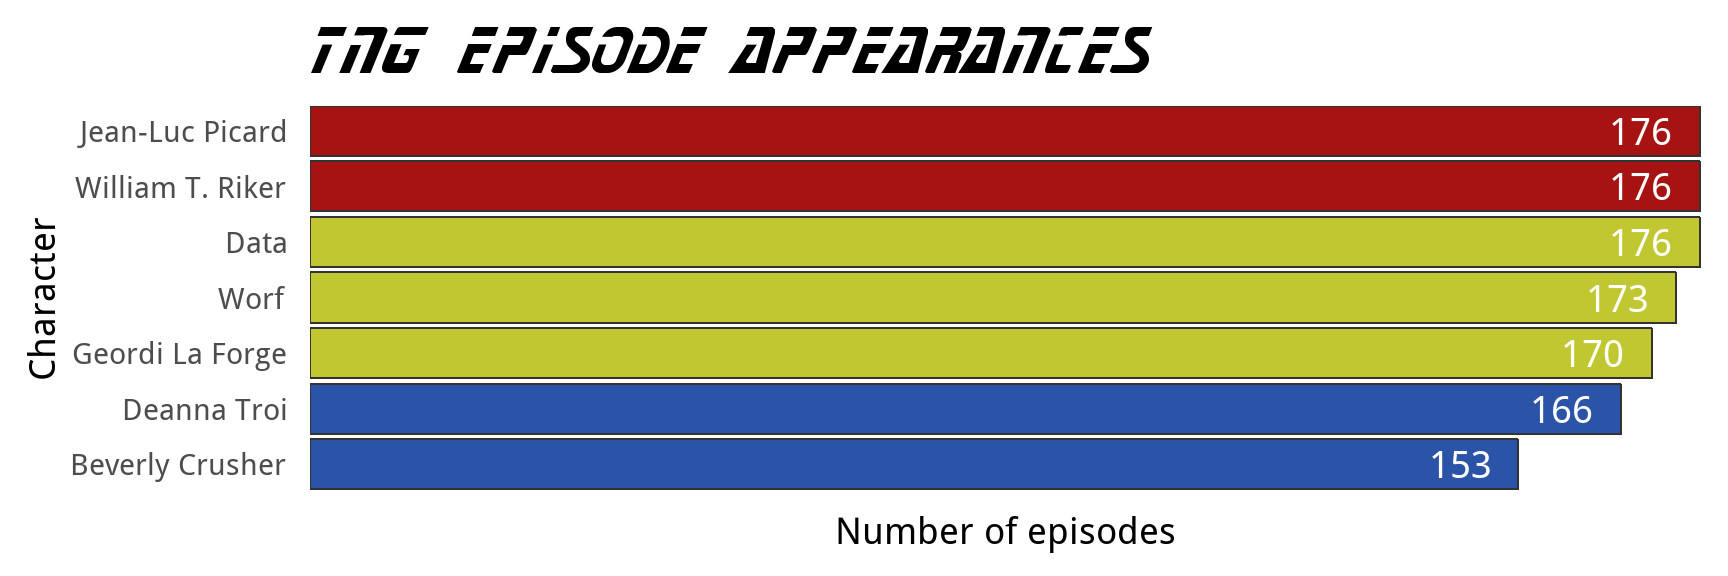
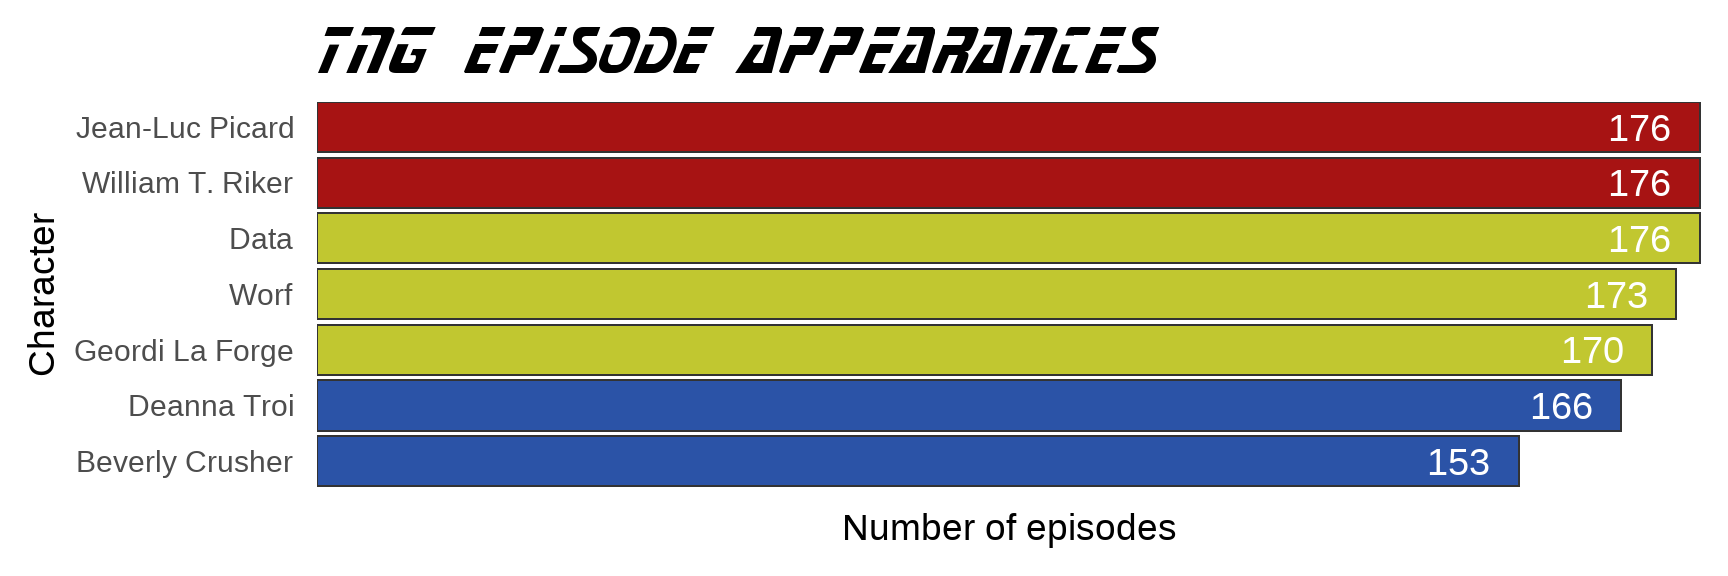
Update docs.

Changed region(s): [[0.0, 0.1562, 1.0, 0.9688], [0.1562, 0.0312, 0.6875, 0.125]]

diff --git a/docs/reference/theme_rtrek.html b/docs/reference/theme_rtrek.html
@@ -1,0 +1,229 @@
+<!-- Generated by pkgdown: do not edit by hand -->
+<!DOCTYPE html>
+<html lang="en">
+  <head>
+  <meta charset="utf-8">
+<meta http-equiv="X-UA-Compatible" content="IE=edge">
+<meta name="viewport" content="width=device-width, initial-scale=1.0">
+
+<title>ggplot2 themes — theme_rtrek • rtrek</title>
+
+<!-- favicons -->
+<link rel="icon" type="image/png" sizes="16x16" href="../favicon-16x16.png">
+<link rel="icon" type="image/png" sizes="32x32" href="../favicon-32x32.png">
+<link rel="apple-touch-icon" type="image/png" sizes="180x180" href="../apple-touch-icon.png" />
+<link rel="apple-touch-icon" type="image/png" sizes="120x120" href="../apple-touch-icon-120x120.png" />
+<link rel="apple-touch-icon" type="image/png" sizes="76x76" href="../apple-touch-icon-76x76.png" />
+<link rel="apple-touch-icon" type="image/png" sizes="60x60" href="../apple-touch-icon-60x60.png" />
+<!-- jquery -->
+<script src="https://cdnjs.cloudflare.com/ajax/libs/jquery/3.3.1/jquery.min.js" integrity="sha256-FgpCb/KJQlLNfOu91ta32o/NMZxltwRo8QtmkMRdAu8=" crossorigin="anonymous"></script>
+<!-- Bootstrap -->
+
+<link rel="stylesheet" href="https://cdnjs.cloudflare.com/ajax/libs/twitter-bootstrap/3.3.7/css/bootstrap.min.css" integrity="sha256-916EbMg70RQy9LHiGkXzG8hSg9EdNy97GazNG/aiY1w=" crossorigin="anonymous" />
+<script src="https://cdnjs.cloudflare.com/ajax/libs/twitter-bootstrap/3.3.7/js/bootstrap.min.js" integrity="sha256-U5ZEeKfGNOja007MMD3YBI0A3OSZOQbeG6z2f2Y0hu8=" crossorigin="anonymous"></script>
+
+<!-- Font Awesome icons -->
+<link rel="stylesheet" href="https://cdnjs.cloudflare.com/ajax/libs/font-awesome/4.7.0/css/font-awesome.min.css" integrity="sha256-eZrrJcwDc/3uDhsdt61sL2oOBY362qM3lon1gyExkL0=" crossorigin="anonymous" />
+
+<!-- clipboard.js -->
+<script src="https://cdnjs.cloudflare.com/ajax/libs/clipboard.js/2.0.4/clipboard.min.js" integrity="sha256-FiZwavyI2V6+EXO1U+xzLG3IKldpiTFf3153ea9zikQ=" crossorigin="anonymous"></script>
+
+<!-- sticky kit -->
+<script src="https://cdnjs.cloudflare.com/ajax/libs/sticky-kit/1.1.3/sticky-kit.min.js" integrity="sha256-c4Rlo1ZozqTPE2RLuvbusY3+SU1pQaJC0TjuhygMipw=" crossorigin="anonymous"></script>
+
+<!-- pkgdown -->
+<link href="../pkgdown.css" rel="stylesheet">
+<script src="../pkgdown.js"></script>
+
+
+
+  <link href="../extra.css" rel="stylesheet">
+  
+<meta property="og:title" content="ggplot2 themes — theme_rtrek" />
+
+<meta property="og:description" content="A collection of ggplot2 themes." />
+
+<meta property="og:image" content="https://leonawicz.github.io/rtrek/logo.png" />
+<meta name="twitter:card" content="summary" />
+
+
+
+<!-- mathjax -->
+<script src="https://cdnjs.cloudflare.com/ajax/libs/mathjax/2.7.5/MathJax.js" integrity="sha256-nvJJv9wWKEm88qvoQl9ekL2J+k/RWIsaSScxxlsrv8k=" crossorigin="anonymous"></script>
+<script src="https://cdnjs.cloudflare.com/ajax/libs/mathjax/2.7.5/config/TeX-AMS-MML_HTMLorMML.js" integrity="sha256-84DKXVJXs0/F8OTMzX4UR909+jtl4G7SPypPavF+GfA=" crossorigin="anonymous"></script>
+
+<!--[if lt IE 9]>
+<script src="https://oss.maxcdn.com/html5shiv/3.7.3/html5shiv.min.js"></script>
+<script src="https://oss.maxcdn.com/respond/1.4.2/respond.min.js"></script>
+<![endif]-->
+
+
+<!-- Global site tag (gtag.js) - Google Analytics -->
+<script async src="https://www.googletagmanager.com/gtag/js?id=UA-46129458-3"></script>
+<script>
+  window.dataLayer = window.dataLayer || [];
+  function gtag(){dataLayer.push(arguments);}
+  gtag('js', new Date());
+
+  gtag('config', 'UA-46129458-3');
+</script>
+
+  </head>
+
+  <body>
+    <div class="container template-reference-topic">
+      <header>
+      <div class="navbar navbar-inverse navbar-fixed-top" role="navigation">
+  <div class="container">
+    <div class="navbar-header">
+      <button type="button" class="navbar-toggle collapsed" data-toggle="collapse" data-target="#navbar" aria-expanded="false">
+        <span class="sr-only">Toggle navigation</span>
+        <span class="icon-bar"></span>
+        <span class="icon-bar"></span>
+        <span class="icon-bar"></span>
+      </button>
+      <span class="navbar-brand">
+        <a class="navbar-link" href="../index.html">rtrek</a>
+        <span class="version label label-default" data-toggle="tooltip" data-placement="bottom" title="Released version">0.2.5</span>
+      </span>
+    </div>
+
+    <div id="navbar" class="navbar-collapse collapse">
+      <ul class="nav navbar-nav">
+        <li>
+  <a href="../index.html">
+    <span class="fa fa-home"></span>
+     
+    Home
+  </a>
+</li>
+<li>
+  <a href="../articles/rtrek.html">Get Started</a>
+</li>
+<li class="dropdown">
+  <a href="#" class="dropdown-toggle" data-toggle="dropdown" role="button" aria-expanded="false">
+    Articles
+     
+    <span class="caret"></span>
+  </a>
+  <ul class="dropdown-menu" role="menu">
+    <li>
+      <a href="../articles/stapi.html">Star Trek API (STAPI)</a>
+    </li>
+    <li>
+      <a href="../articles/memory-alpha.html">Memory Alpha</a>
+    </li>
+    <li>
+      <a href="../articles/memory-beta.html">Memory Beta</a>
+    </li>
+    <li>
+      <a href="../articles/fonts.html">Star Trek fonts</a>
+    </li>
+    <li class="divider"></li>
+    <li class="dropdown-header">Examples</li>
+    <li>
+      <a href="../articles/ex-word-count.html">Novels: word count</a>
+    </li>
+    <li>
+      <a href="../articles/ex-episode-analysis.html">Episodes: spoken lines</a>
+    </li>
+  </ul>
+</li>
+<li>
+  <a href="../reference/index.html">Reference</a>
+</li>
+<li>
+  <a href="../news/index.html">Changelog</a>
+</li>
+      </ul>
+      
+      <ul class="nav navbar-nav navbar-right">
+        <li>
+  <a href="../articles/sc.html">Stellar Cartography</a>
+</li>
+<li>
+  <a href="../articles/rr.html">R &amp; R... &amp; R</a>
+</li>
+<li>
+  <a href="https://github.com/leonawicz/rtrek">
+    <span class="fa fa-github fa-lg"></span>
+     
+  </a>
+</li>
+      </ul>
+      
+    </div><!--/.nav-collapse -->
+  </div><!--/.container -->
+</div><!--/.navbar -->
+
+      
+      </header>
+
+<div class="row">
+  <div class="col-md-9 contents">
+    <div class="page-header">
+    <h1>ggplot2 themes</h1>
+    <small class="dont-index">Source: <a href='https://github.com/leonawicz/rtrek/blob/master/R/themes.R'><code>R/themes.R</code></a></small>
+    <div class="hidden name"><code>theme_rtrek.Rd</code></div>
+    </div>
+
+    <div class="ref-description">
+    
+    <p>A collection of ggplot2 themes.</p>
+    
+    </div>
+
+    <pre class="usage"><span class='fu'>theme_rtrek</span>(<span class='kw'>base_size</span> <span class='kw'>=</span> <span class='fl'>11</span>, <span class='kw'>base_family</span> <span class='kw'>=</span> <span class='st'>""</span>,
+  <span class='kw'>base_line_size</span> <span class='kw'>=</span> <span class='no'>base_size</span>/<span class='fl'>22</span>, <span class='kw'>base_rect_size</span> <span class='kw'>=</span> <span class='no'>base_size</span>/<span class='fl'>22</span>)
+
+<span class='fu'>theme_rtrek_dark</span>(<span class='kw'>base_size</span> <span class='kw'>=</span> <span class='fl'>11</span>, <span class='kw'>base_family</span> <span class='kw'>=</span> <span class='st'>""</span>,
+  <span class='kw'>base_line_size</span> <span class='kw'>=</span> <span class='no'>base_size</span>/<span class='fl'>22</span>, <span class='kw'>base_rect_size</span> <span class='kw'>=</span> <span class='no'>base_size</span>/<span class='fl'>22</span>)</pre>
+    
+    <h2 class="hasAnchor" id="arguments"><a class="anchor" href="#arguments"></a>Arguments</h2>
+    <table class="ref-arguments">
+    <colgroup><col class="name" /><col class="desc" /></colgroup>
+    <tr>
+      <th>base_size</th>
+      <td><p>base font size.</p></td>
+    </tr>
+    <tr>
+      <th>base_family</th>
+      <td><p>base font family.</p></td>
+    </tr>
+    <tr>
+      <th>base_line_size</th>
+      <td><p>base size for line elements.</p></td>
+    </tr>
+    <tr>
+      <th>base_rect_size</th>
+      <td><p>base size for rect elements.</p></td>
+    </tr>
+    </table>
+    
+
+  </div>
+  <div class="col-md-3 hidden-xs hidden-sm" id="sidebar">
+    <h2>Contents</h2>
+    <ul class="nav nav-pills nav-stacked">
+      <li><a href="#arguments">Arguments</a></li>
+                </ul>
+
+  </div>
+</div>
+
+      <footer>
+      <div class="copyright">
+  <p>Developed by <a href='https://leonawicz.github.io/'>Matthew Leonawicz</a>.</p>
+</div>
+
+<div class="pkgdown">
+  <p>Site built with <a href="https://pkgdown.r-lib.org/">pkgdown</a> 1.3.0.</p>
+</div>
+      </footer>
+   </div>
+
+  
+
+  </body>
+</html>
+

diff --git a/docs/articles/memory-alpha.html b/docs/articles/memory-alpha.html
@@ -263,7 +263,7 @@
 <div class="sourceCode" id="cb5"><pre class="sourceCode r"><code class="sourceCode r"><a class="sourceLine" id="cb5-1" title="1"><span class="kw"><a href="https://www.rdocumentation.org/packages/base/topics/library">library</a></span>(dplyr)</a>
 <a class="sourceLine" id="cb5-2" title="2">klingons &lt;-<span class="st"> </span><span class="kw"><a href="../reference/memory_alpha.html">memory_alpha</a></span>(<span class="st">"people/Klingons/Memory Alpha images (Klingons)"</span>)</a>
 <a class="sourceLine" id="cb5-3" title="3">klingons</a>
-<a class="sourceLine" id="cb5-4" title="4"><span class="co">#&gt; # A tibble: 1,199 x 2</span></a>
+<a class="sourceLine" id="cb5-4" title="4"><span class="co">#&gt; # A tibble: 1,200 x 2</span></a>
 <a class="sourceLine" id="cb5-5" title="5"><span class="co">#&gt;    `Memory Alpha images (Klingons)`   url                                  </span></a>
 <a class="sourceLine" id="cb5-6" title="6"><span class="co">#&gt;    &lt;chr&gt;                              &lt;chr&gt;                                </span></a>
 <a class="sourceLine" id="cb5-7" title="7"><span class="co">#&gt;  1 Age of ascension pain sticks.jpg   File:Age_of_ascension_pain_sticks.jpg</span></a>
@@ -276,7 +276,7 @@
 <a class="sourceLine" id="cb5-14" title="14"><span class="co">#&gt;  8 Alexander Rozhenko, 2370.jpg       File:Alexander_Rozhenko,_2370.jpg    </span></a>
 <a class="sourceLine" id="cb5-15" title="15"><span class="co">#&gt;  9 Alexander Rozhenko, 2374.jpg       File:Alexander_Rozhenko,_2374.jpg    </span></a>
 <a class="sourceLine" id="cb5-16" title="16"><span class="co">#&gt; 10 Alexander Shane.jpg                File:Alexander_Shane.jpg             </span></a>
-<a class="sourceLine" id="cb5-17" title="17"><span class="co">#&gt; # ... with 1,189 more rows</span></a>
+<a class="sourceLine" id="cb5-17" title="17"><span class="co">#&gt; # ... with 1,190 more rows</span></a>
 <a class="sourceLine" id="cb5-18" title="18"></a>
 <a class="sourceLine" id="cb5-19" title="19">worf_data &lt;-<span class="st"> </span><span class="kw"><a href="https://www.rdocumentation.org/packages/stats/topics/filter">filter</a></span>(klingons, <span class="kw"><a href="https://www.rdocumentation.org/packages/base/topics/grep">grepl</a></span>(<span class="st">"Worf"</span>, url) <span class="op">&amp;</span><span class="st"> </span><span class="kw"><a href="https://www.rdocumentation.org/packages/base/topics/grep">grepl</a></span>(<span class="st">"Data"</span>, url))</a>
 <a class="sourceLine" id="cb5-20" title="20">worf_data</a>
@@ -328,7 +328,7 @@
 <a class="sourceLine" id="cb8-3" title="3"><span class="co">#&gt;    title              text                                url              </span></a>
 <a class="sourceLine" id="cb8-4" title="4"><span class="co">#&gt;    &lt;chr&gt;              &lt;chr&gt;                               &lt;chr&gt;            </span></a>
 <a class="sourceLine" id="cb8-5" title="5"><span class="co">#&gt;  1 Guinan             https://memory-alpha.fandom.com/wi~ Guinan           </span></a>
-<a class="sourceLine" id="cb8-6" title="6"><span class="co">#&gt;  2 Francis Guinan     https://memory-alpha.wikia.com/wik~ Francis_Guinan   </span></a>
+<a class="sourceLine" id="cb8-6" title="6"><span class="co">#&gt;  2 Francis Guinan     https://memory-alpha.fandom.com/wi~ Francis_Guinan   </span></a>
 <a class="sourceLine" id="cb8-7" title="7"><span class="co">#&gt;  3 Unnamed El-Aurians https://memory-alpha.fandom.com/wi~ Unnamed_El-Auria~</span></a>
 <a class="sourceLine" id="cb8-8" title="8"><span class="co">#&gt;  4 Unnamed individua~ https://memory-alpha.fandom.com/wi~ Unnamed_individu~</span></a>
 <a class="sourceLine" id="cb8-9" title="9"><span class="co">#&gt;  5 Prometheus         https://memory-alpha.fandom.com/wi~ Prometheus       </span></a>

diff --git a/docs/reference/index.html b/docs/reference/index.html
@@ -383,6 +383,20 @@
         </td>
         <td><p>Pipe operator</p></td>
       </tr>
+    </tbody><tbody>
+      <tr>
+        <th colspan="2">
+          <h2 id="section-plots" class="hasAnchor"><a href="#section-plots" class="anchor"></a>Plots</h2>
+          <p class="section-desc"></p>
+        </th>
+      </tr>
+      <tr>
+        
+        <td>
+          <p><code><a href="theme_rtrek.html">theme_rtrek()</a></code> <code><a href="theme_rtrek.html">theme_rtrek_dark()</a></code> </p>
+        </td>
+        <td><p>ggplot2 themes</p></td>
+      </tr>
     </tbody>
     </table>
   </div>
@@ -394,6 +408,7 @@
       <li><a href="#section-datasets">Datasets</a></li>
       <li><a href="#section-api">API</a></li>
       <li><a href="#section-helper-functions">Helper functions</a></li>
+      <li><a href="#section-plots">Plots</a></li>
     </ul>
   </div>
 </div>

diff --git a/docs/news/index.html b/docs/news/index.html
@@ -170,6 +170,7 @@
 </h1>
 <ul>
 <li>Added <code>st_transcripts</code> for importing datasets based on episode and movie transcripts containing metadata and variables for analysis of scenes, character presence, dialog, sentiment.</li>
+<li>Added basic ggplot2 themes.</li>
 </ul>
 </div>
     <div id="rtrek-022" class="section level1">

diff --git a/docs/extra.css b/docs/extra.css
@@ -7,6 +7,10 @@ td p {
   text-align: left;
 }
 
+body, p, h1, h2, h3, h4, h5, h6{
+  font-family: Helvetica, Arial, sans-serif;
+}
+
 /* syntaxt highlighting */
 .fl      {color: #63B8FF;}
 .fu      {color: #00F5FF;} /* function */
